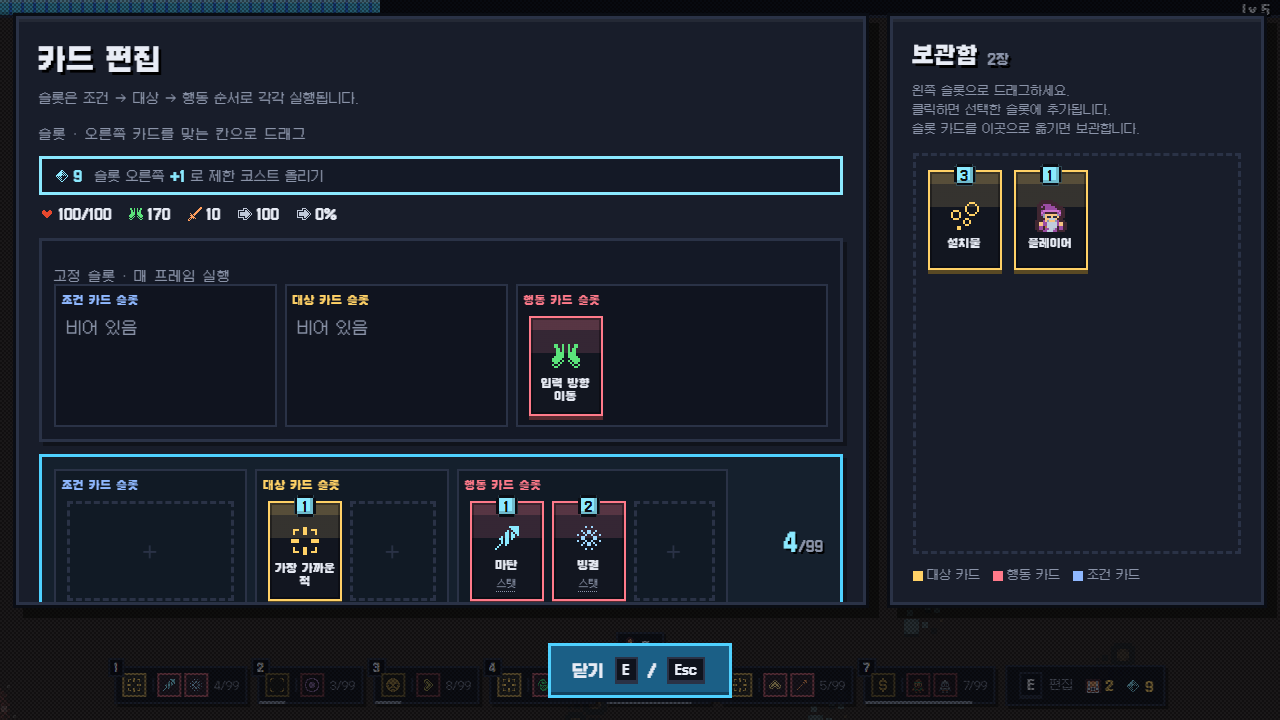
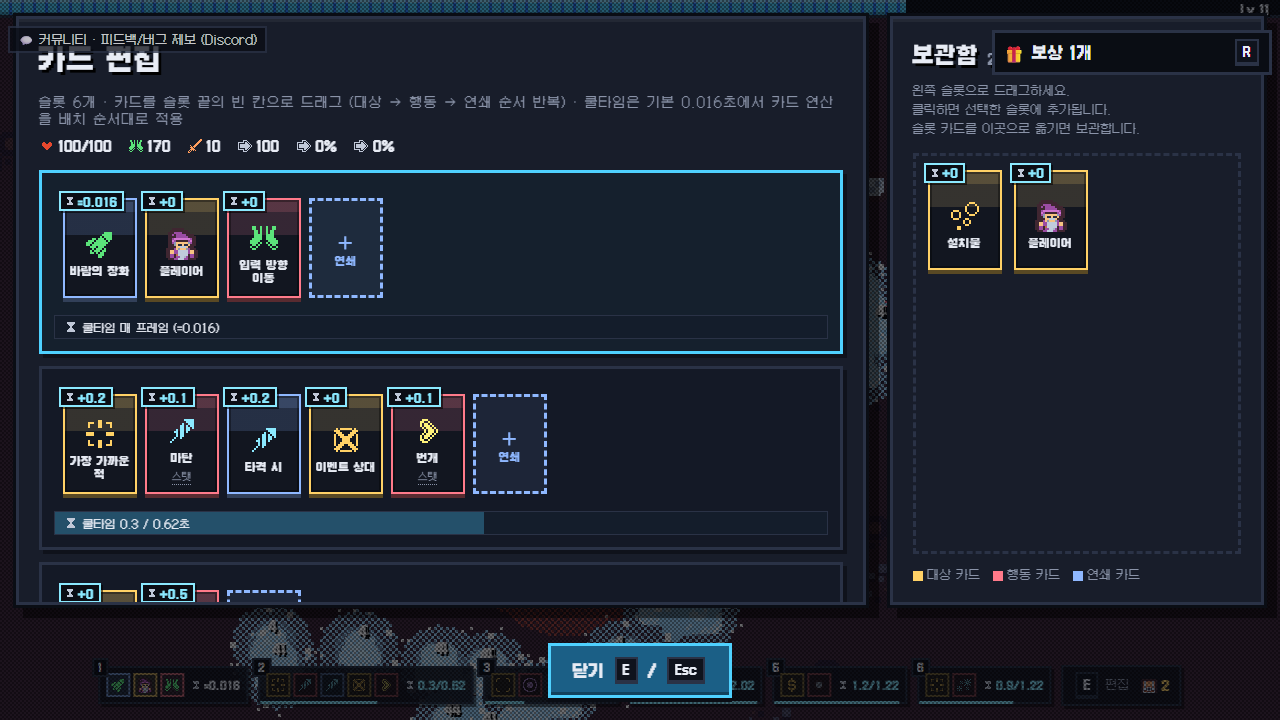
Update README and media for the current version
Retitled game, 5-card reward list (R / 1-5), inspector and sound keys,
additive cooldown examples, card counts, and freshly captured title,
editor, reward, gameplay and boss media.

diff --git a/README.md b/README.md
@@ -1,5 +1,3 @@
-플레이 로그 DB 설정: [Supabase 연결·수집 범위·운영 안내](docs/PLAY_LOGS.md)
-
 <div align="center">
 
 # 🔁 오늘도 평화로운 마법 생활
@@ -8,7 +6,7 @@
 
 **카드를 쌓아 나만의 주문을 조립하고, 몬스터 무리에서 살아남는 로그라이크 서바이벌**
 
-[▶ 지금 플레이](https://ybs1164.github.io/spellLoop/) · [상세 규칙](docs/MECHANICS.md) · [구조](docs/ARCHITECTURE.md)
+[▶ 지금 플레이](https://ybs1164.github.io/spellLoop/) · [💬 Discord](https://discord.gg/a9qbwygpcp) · [상세 규칙](docs/MECHANICS.md) · [구조](docs/ARCHITECTURE.md)
 
 ![title](docs/title.png)
 
@@ -19,50 +17,54 @@
 ## 🎯 게임 목표
 
 - 한 판은 **3단계**로 진행됩니다. 단계마다 테마 스테이지 8종 중 하나가 무작위로 정해집니다.
-- 시간이 지나면 **보스**가 등장합니다. 쓰러뜨리면 다음 단계로, **3단계 보스를 쓰러뜨리면 승리**입니다.
-- 몰려오는 적을 처치해 경험치를 모으고, 체력이 0이 되기 전에 빌드를 완성하세요.
+- 3분 30초~4분이 지나면 **보스**가 등장합니다. 쓰러뜨리면 다음 단계로, **3단계 보스를 쓰러뜨리면 승리**입니다.
+- 1분마다 **포위 공격**이 몰려옵니다. 적을 처치해 경험치를 모으고, 체력이 0이 되기 전에 빌드를 완성하세요.
 
-## 🕹 무엇을 할 수 있나
+## 🕹 조작
 
 | 조작 | 키 |
 | --- | --- |
 | 이동 | `W` `A` `S` `D` / 방향키 |
 | 카드 편집 | `E` / `Tab` |
-| 일시정지 | `Esc` |
-| 레벨업 카드 선택 | `1` `2` `3` |
-| 성능 오버레이 | `F3` |
+| 보상 목록 열기/닫기 | `R` |
+| 보상 카드 선택 | `1` ~ `5` |
+| 개체 조회 (적·아군 슬롯 보기) | `I` |
+| 일시정지 | `Esc` / `P` |
 | 소리 켜기/끄기 | `M` |
+| 성능 오버레이 | `F3` |
 
-**공격은 자동입니다.** 플레이어는 이동과 **카드 조합**에 집중합니다. 6개의 슬롯은 각자의 **쿨타임**(기본 0.016초)마다 작동하며, 슬롯 카드마다 붙은 쿨타임 연산(`+`, `−`, `×`, `=`)이 배치 순서대로 쿨타임을 바꿉니다.
+**공격은 자동입니다.** 플레이어는 이동과 **카드 조합**에 집중합니다. 이동조차 `바람의 장화 → 플레이어 → 입력 방향 이동` 카드로 만든 슬롯이 매 프레임 실행하는 것입니다.
 
 ### 🃏 카드로 주문 만들기
 
 ![editor](docs/editor.png)
 
-플레이어 슬롯은 카드 한 줄이며, 처음 놓은 카드를 기준으로 **대상 → 행동 → 연쇄 → 대상 → 행동 …** 순서가 반복됩니다 (빈 칸은 다음 순서의 종류만 받음). 연쇄 카드는 앞 행동의 결과를 이어받아 뒤의 대상 카드에 뒤따르는 행동을 실행시킵니다 (예: `가장 가까운 적 → 탄환 → 타격 시 → 이벤트 상대 → 빙결`). 쿨타임 연산은 놓인 순서대로 적용됩니다.
+플레이어는 **6개의 슬롯**을 가지며(맨 앞은 이동 슬롯), 한 슬롯에 카드를 최대 9장까지 **대상 → 행동 → 연쇄 → 대상 → 행동 …** 순서로 쌓습니다. 연쇄 카드는 앞 행동의 결과를 이어받아 뒤의 대상·행동을 실행합니다.
 
 | 칸 | 역할 | 예시 |
 | --- | --- | --- |
-| 연쇄 | 앞 행동의 결과(`타격 시`, `행동 완료 시`, `피격 시`)를 잇고, 슬롯에 제약을 걸고 쿨타임을 바꿈 | `바람의 장화`(이동 카드 슬롯 전용, =0.016), `절제의 반지`(행동 3장 이하, ×0.5), `피의 성배`(체력 절반 이하일 때만, ×0.3) |
-| 대상 | 누구에게 쓸지 | `가장 가까운 적`, `마무리 대상`, `전체`, `자신` |
-| 행동 | 무엇을 할지 | `탄환`, `빙결`, `연쇄`, `치유`, `보호막`, `흡수`, `분열` |
+| 대상 | 누구에게 쓸지 | `가장 가까운 적`, `마무리 대상`, `전방 지점`, `이벤트 상대`, `전체` |
+| 행동 | 무엇을 할지 | `마탄`, `번개`, `빙결`, `유성`, `부유 구체`, `기사 소환`, `분열` |
+| 연쇄 | 앞 행동을 잇거나, 슬롯에 조건·제약을 검 | `타격 시`, `행동 완료 시`, `가시 갑옷`(피격 순간), `피의 성배`(체력 절반 이하), `절제의 반지`(행동 3장 이하) |
 
-조합 예시:
+모든 슬롯은 **쿨타임**마다 작동합니다. 쿨타임은 기본 0.016초(매 프레임)에서 시작해 카드마다 붙은 연산(`+`, `×`, `=`)을 놓인 순서대로 더해 갑니다. 카드를 많이 쌓을수록 강해지지만 느려집니다.
 
-- `가장 가까운 적 → 마탄` — 쿨타임 1 + 0 − 0.2 = 0.8초마다 사격
-- `절제의 반지 → 가장 가까운 적 → 마탄` — 1 × 0.6 + 0 − 0.2 = 0.4초
-- `가시 갑옷 → 자신 → 치유` — 피격될 때만, 쿨타임이 끝났으면 회복
-- `가장 가까운 적 → 마탄 → 번개` — 마탄의 타격마다 번개 연계
-- `바람의 장화 → 플레이어 → 입력 방향 이동` — 매 프레임(=0.016) 이동하는 기본 이동 슬롯
+- `가장 가까운 적 → 마탄` — 0.016 + 0.2 + 0.1 = **0.316초**마다 사격
+- `가장 가까운 적 → 마탄 → 타격 시 → 이벤트 상대 → 번개` — 마탄이 맞힐 때마다 그 적에서 번개 연쇄
+- `절제의 반지 → 가장 가까운 적 → 마탄` — 반지 +0.6, 행동 3장 이하일 때만 넣을 수 있음
+- `가시 갑옷 → 플레이어 → 치유` — 피격되는 순간에만, 쿨타임이 끝났으면 회복
+- `바람의 장화 → 플레이어 → 입력 방향 이동` — `=0.016`으로 매 프레임 이동
+
+플레이어뿐 아니라 **적·보스·아군·설치물·탄환까지 모두 같은 슬롯과 카드 스택**으로 움직입니다. `I` 키로 아무 개체의 슬롯을 열어 볼 수 있습니다.
 
 ### ⬆ 성장
 
 ![levelup](docs/levelup.png)
 
-- 레벨업·보물 상자마다 **카드 5장 중 하나**를 고릅니다. 카드에는 코스트가 없습니다.
-- 슬롯은 **6개로 고정**이며, 맨 앞이 이동 슬롯입니다.
+- 레벨업·보물 상자마다 **보상 카드 5장 중 하나**를 고릅니다. 게임은 멈추지 않고 보상이 우측 상단에 쌓이니, `R`로 열어 원할 때 고르세요.
+- 보상으로 나오는 카드는 **69종**(대상 18 · 행동 41 · 연쇄 10)이며 코스트가 없습니다.
 - 카드 편집기에서 슬롯 구성을 언제든 바꿔 빌드를 재설계할 수 있습니다.
-- 아군·설치물(포탑, 미끼, 지뢰 등)을 소환하는 것도 전략입니다.
+- 아군·설치물(기사, 궁수, 포탑, 미끼, 지뢰 등)을 소환하는 것도 전략입니다.
 
 ### 👹 보스와 스테이지
 
@@ -74,17 +76,27 @@
 | 2 | 망자의 묘역 (망령 군주) · 봉인된 성소 (속박의 예언자) · 철벽 요새 (철벽의 수문장) |
 | 3 | 잿불 화구 (잿불의 폭군) · 심연의 옥좌 (심연 군주) |
 
-보스는 출현 배너에 공략 힌트가 뜨고, 일시정지 화면과 **도감**에서 다시 볼 수 있습니다. 화약통 같은 변수도 숨어 있습니다.
+보스는 출현 배너에 공략 힌트가 뜨고, 일시정지 화면과 **도감**에서 다시 볼 수 있습니다. 단계마다 배경 음악이 바뀌며, 화약통 같은 변수도 숨어 있습니다.
 
 ## 🚀 실행
 
-설치 없이 저장소를 내려받아 `index.html`을 브라우저로 열면 됩니다(순수 JS·Canvas).
+설치 없이 저장소를 내려받아 `index.html`을 브라우저로 열면 됩니다(순수 JS·Canvas, 빌드 도구 없음).
 
 ```bash
 git clone https://github.com/ybs1164/spellLoop.git
 ```
 
+로컬 서버로 열려면(Node.js):
+
+```bash
+npm run serve
+```
+
+`http://localhost:8123`에서 실행됩니다. 적·탄환 1만 개가 넘는 장면도 C/WASM 커널과 이벤트 예산으로 한 프레임 16ms 안에 돌아갑니다(`npm run bench`).
+
 ## 📚 더 보기
 
 - [상세 규칙·개발 노트](docs/MECHANICS.md) — 슬롯 실행, 연쇄 카드·쿨타임 규칙, 검증 스크립트
-- [리소스 출처](assets/CREDITS.md)
+- [코드 구조](docs/ARCHITECTURE.md) — 폴더 구성, 프레임 흐름, 최적화(SoA·WASM·작업 예산)
+- [플레이 로그 DB](docs/PLAY_LOGS.md) — Supabase 연결·수집 범위
+- [리소스 출처](assets/CREDITS.md) — 폰트·스프라이트·음악·효과음
